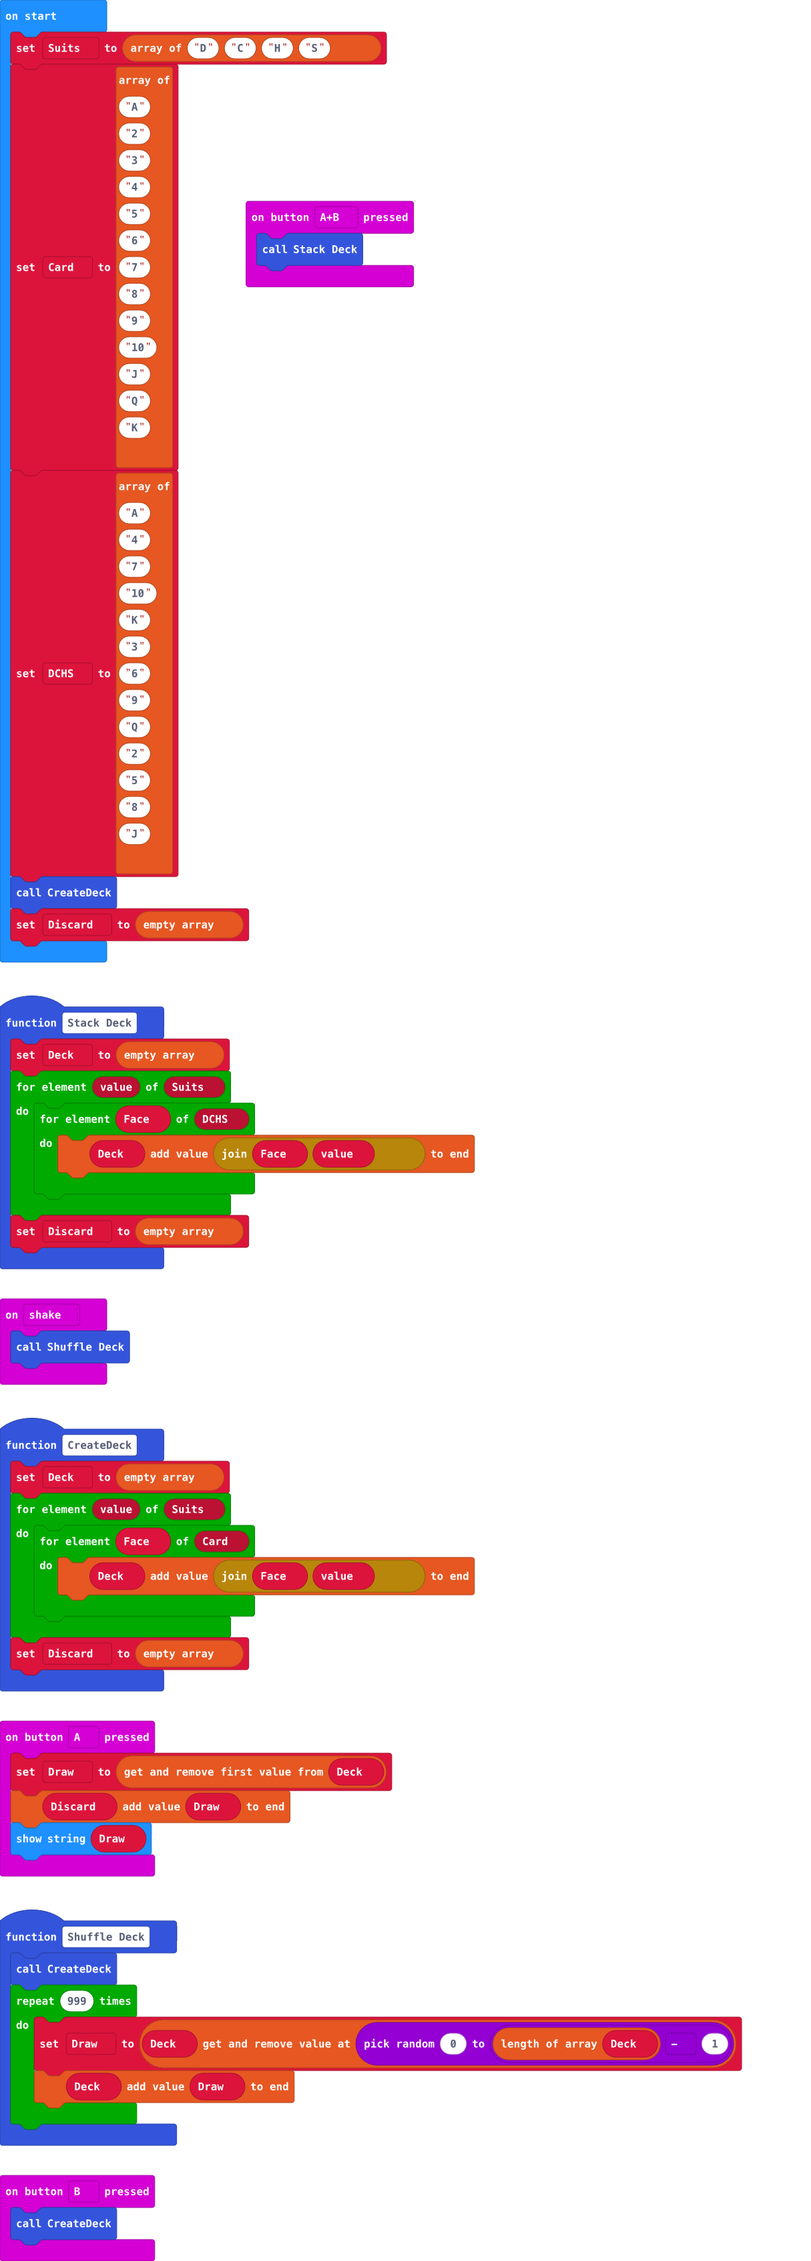
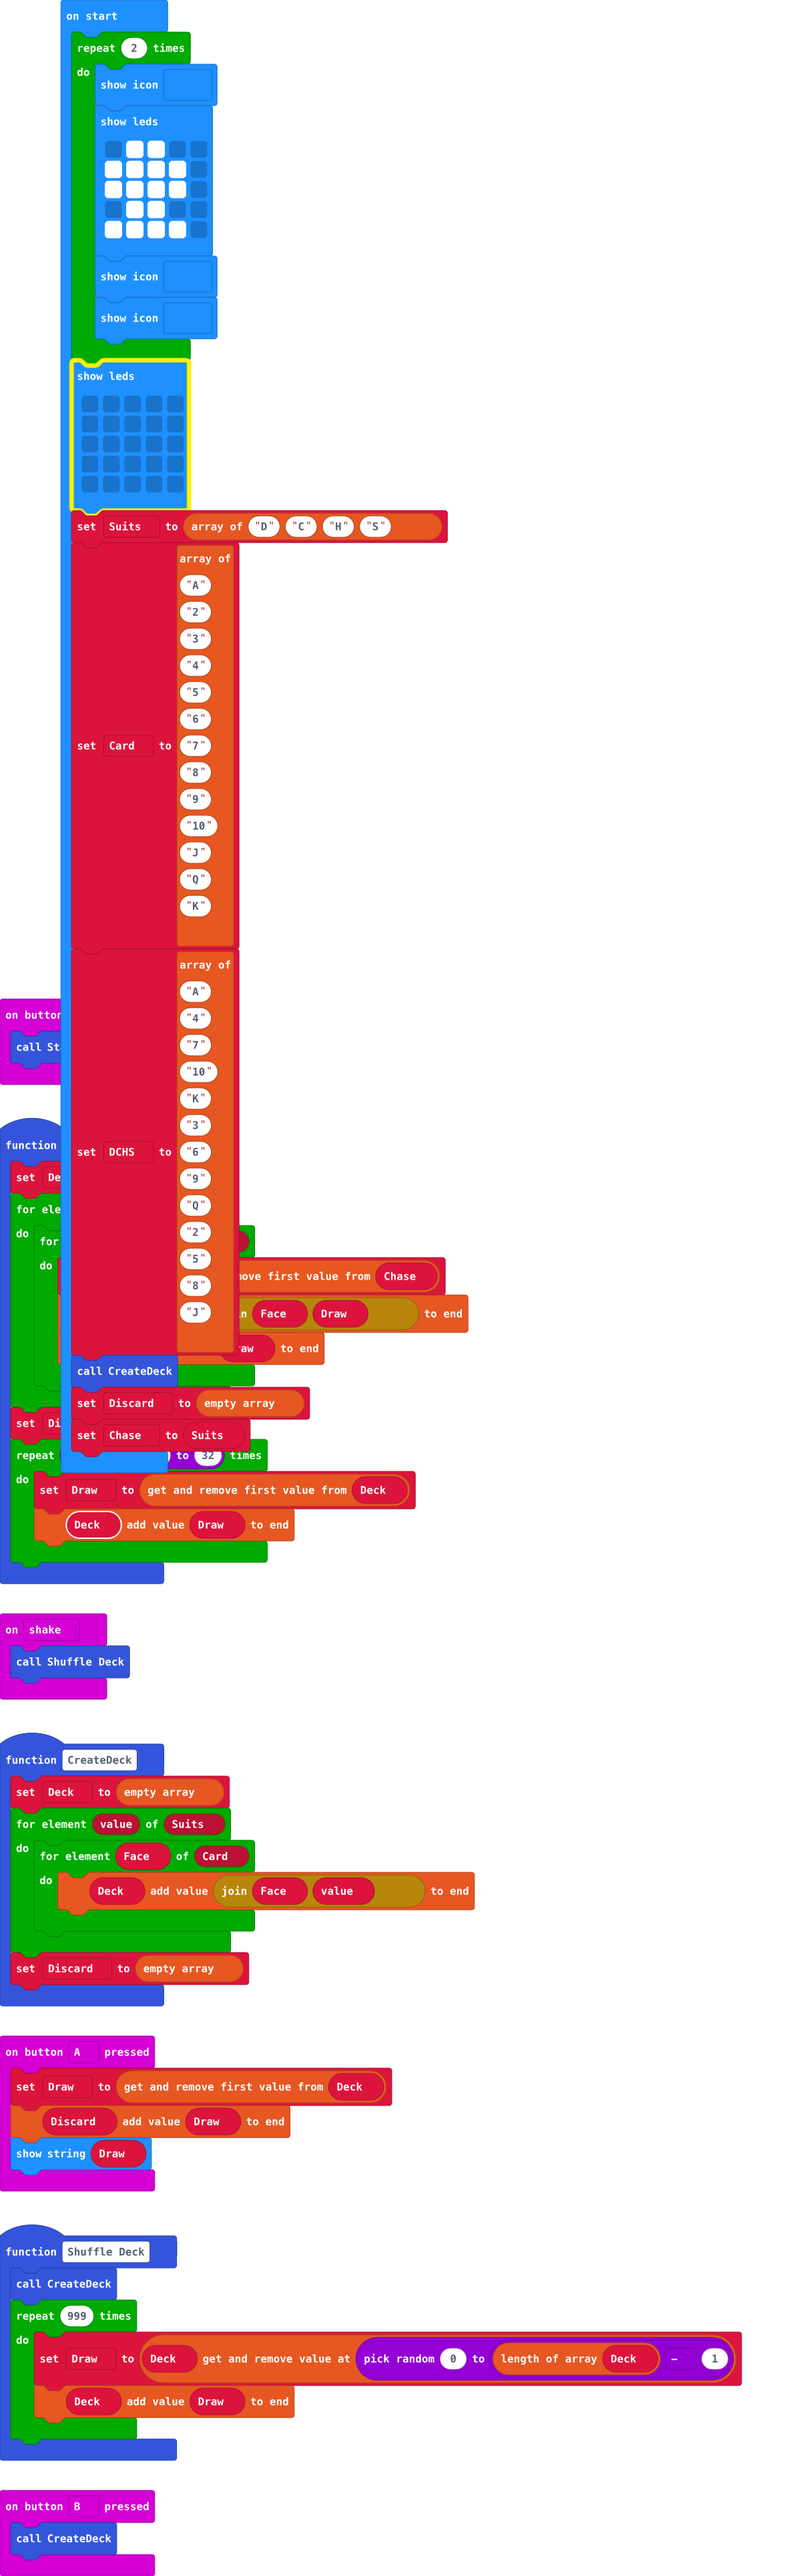
creates a deck of cards, shaking shuffles A button draws a card.....A+B stacks deck

Changed region(s): [[0.0, 0.0, 0.9136, 0.9929], [0.3045, 0.0621, 0.5177, 0.1241]]

diff --git a/main.ts b/main.ts
@@ -14,10 +14,16 @@ function Stack_Deck () {
     Deck = []
     for (let value of Suits) {
         for (let Face of DCHS) {
-            Deck.push("" + Face + value)
+            Draw = Chase.shift()
+            Deck.push("" + Face + Draw)
+            Chase.push(Draw)
         }
     }
     Discard = []
+    for (let index = 0; index < randint(1, 32); index++) {
+        Draw = Deck.shift()
+        Deck.push(Draw)
+    }
 }
 input.onButtonPressed(Button.AB, function () {
     Stack_Deck()
@@ -39,12 +45,33 @@ function CreateDeck () {
 }
 let Deck: string[] = []
 let Draw = ""
+let Chase: string[] = []
 let Discard: string[] = []
 let DCHS: string[] = []
 let Card: string[] = []
 let Suits: string[] = []
+for (let index = 0; index < 2; index++) {
+    basic.showIcon(IconNames.Target)
+    basic.showLeds(`
+        . # # . .
+        # # # # .
+        # # # # .
+        . # # . .
+        # # # # .
+        `)
+    basic.showIcon(IconNames.Heart)
+    basic.showIcon(IconNames.House)
+}
+basic.showLeds(`
+    . . . . .
+    . . . . .
+    . . . . .
+    . . . . .
+    . . . . .
+    `)
 Suits = ["D", "C", "H", "S"]
 Card = ["A", "2", "3", "4", "5", "6", "7", "8", "9", "10", "J", "Q", "K"]
 DCHS = ["A", "4", "7", "10", "K", "3", "6", "9", "Q", "2", "5", "8", "J"]
 CreateDeck()
 Discard = []
+Chase = Suits
